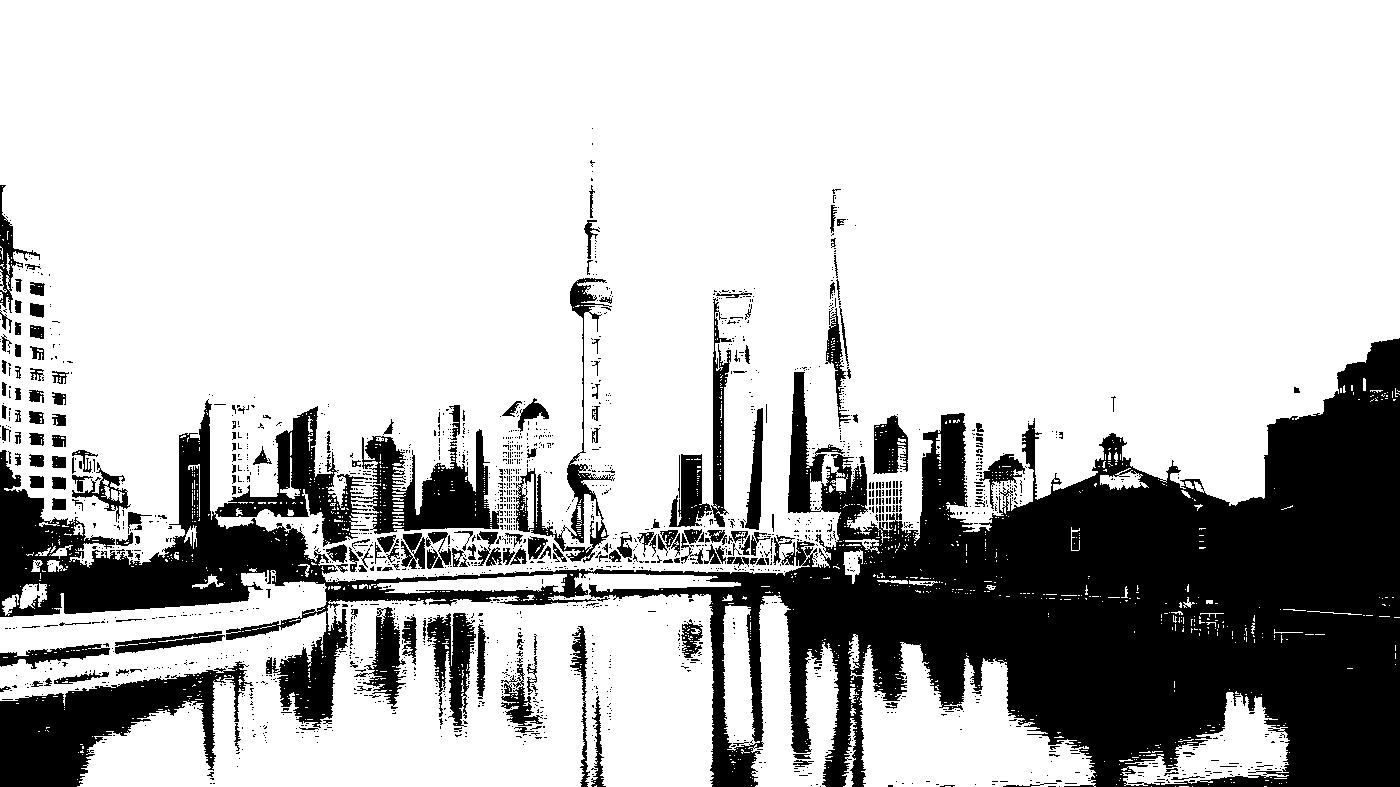
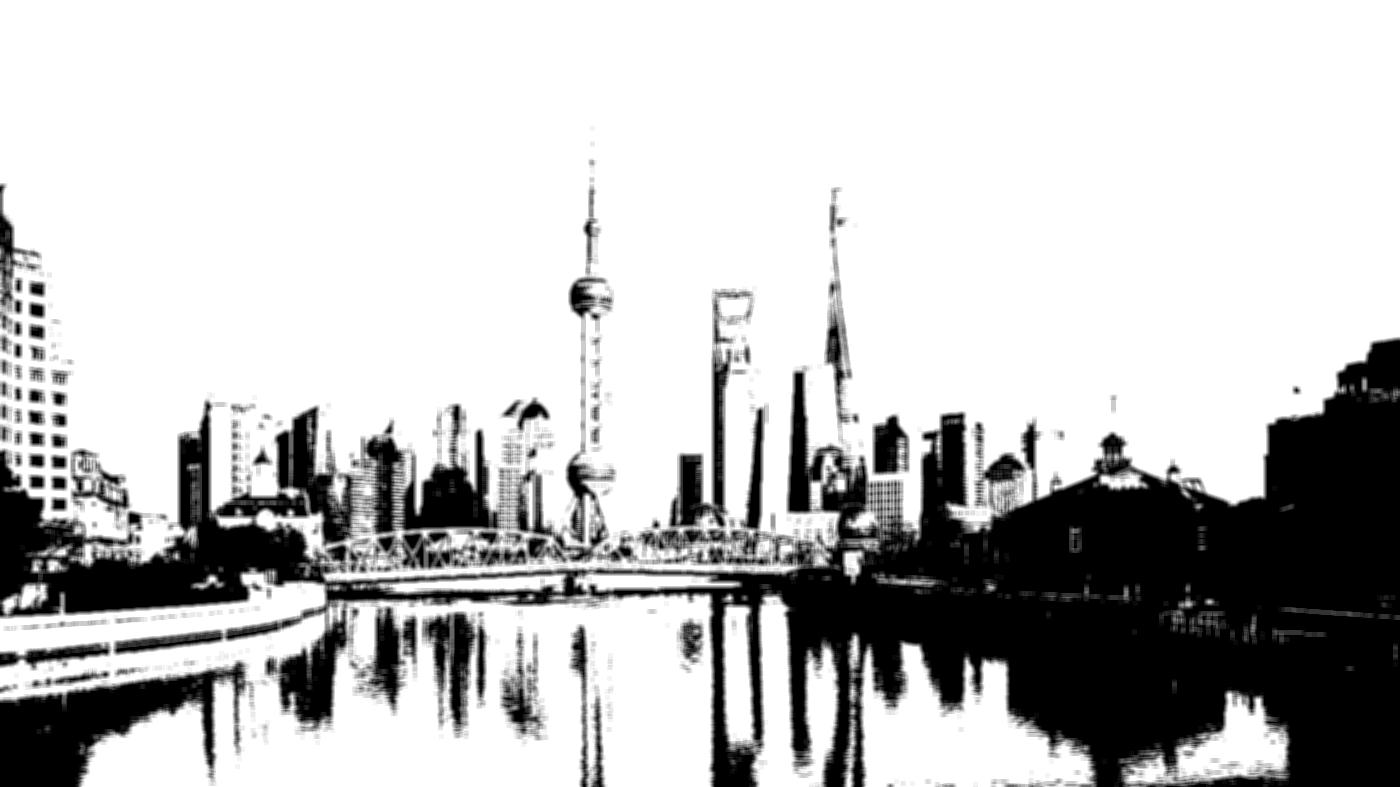
blur output image

diff --git a/src/otsu.py b/src/otsu.py
@@ -5,6 +5,7 @@ import numpy as np
 import matplotlib as mpl
 import matplotlib.pyplot as plt
 import matplotlib.image as mpimg
+import cv2 as cv
 
 # return histogram of pixel values of input img
 def histogram(img):
@@ -64,5 +65,7 @@ def run(src):
     threshold = otsu(hist)
     img = applyThreshold(threshold, I)
 
+    # blur image
+    img = cv.blur(img,(5,5), 1)
     img = Image.fromarray(img)
     img.convert("L").save(f"../segmented/{src}")
